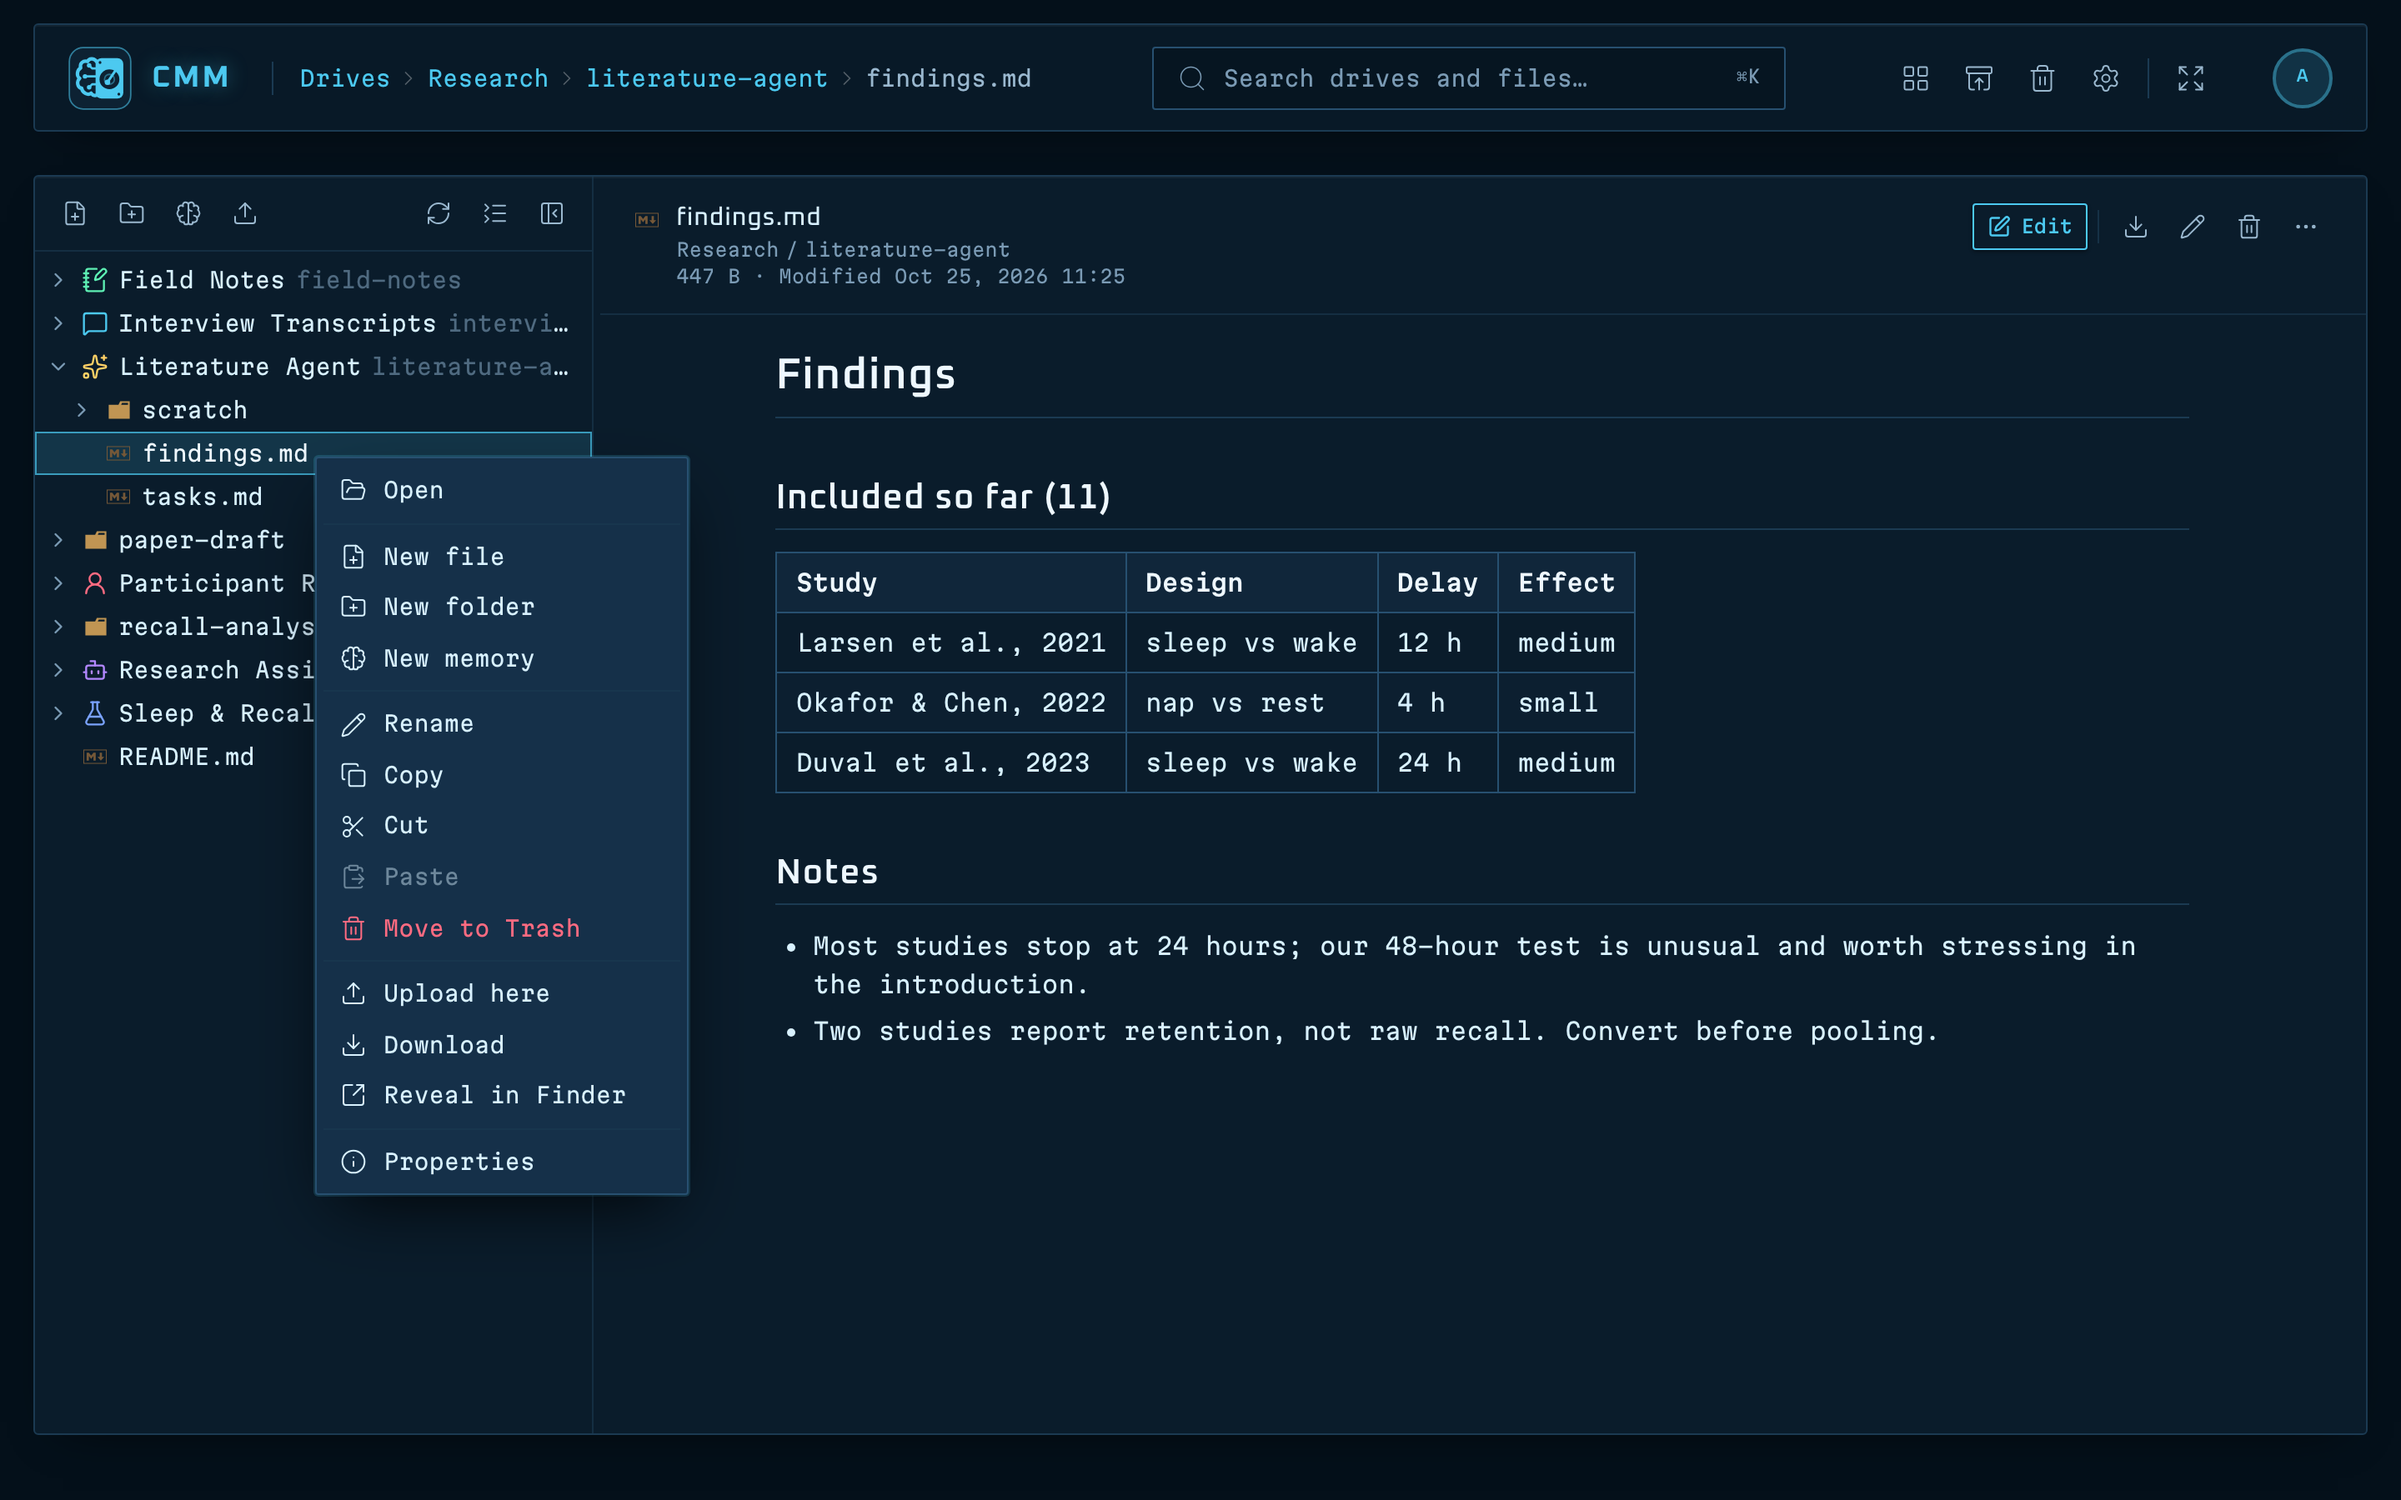
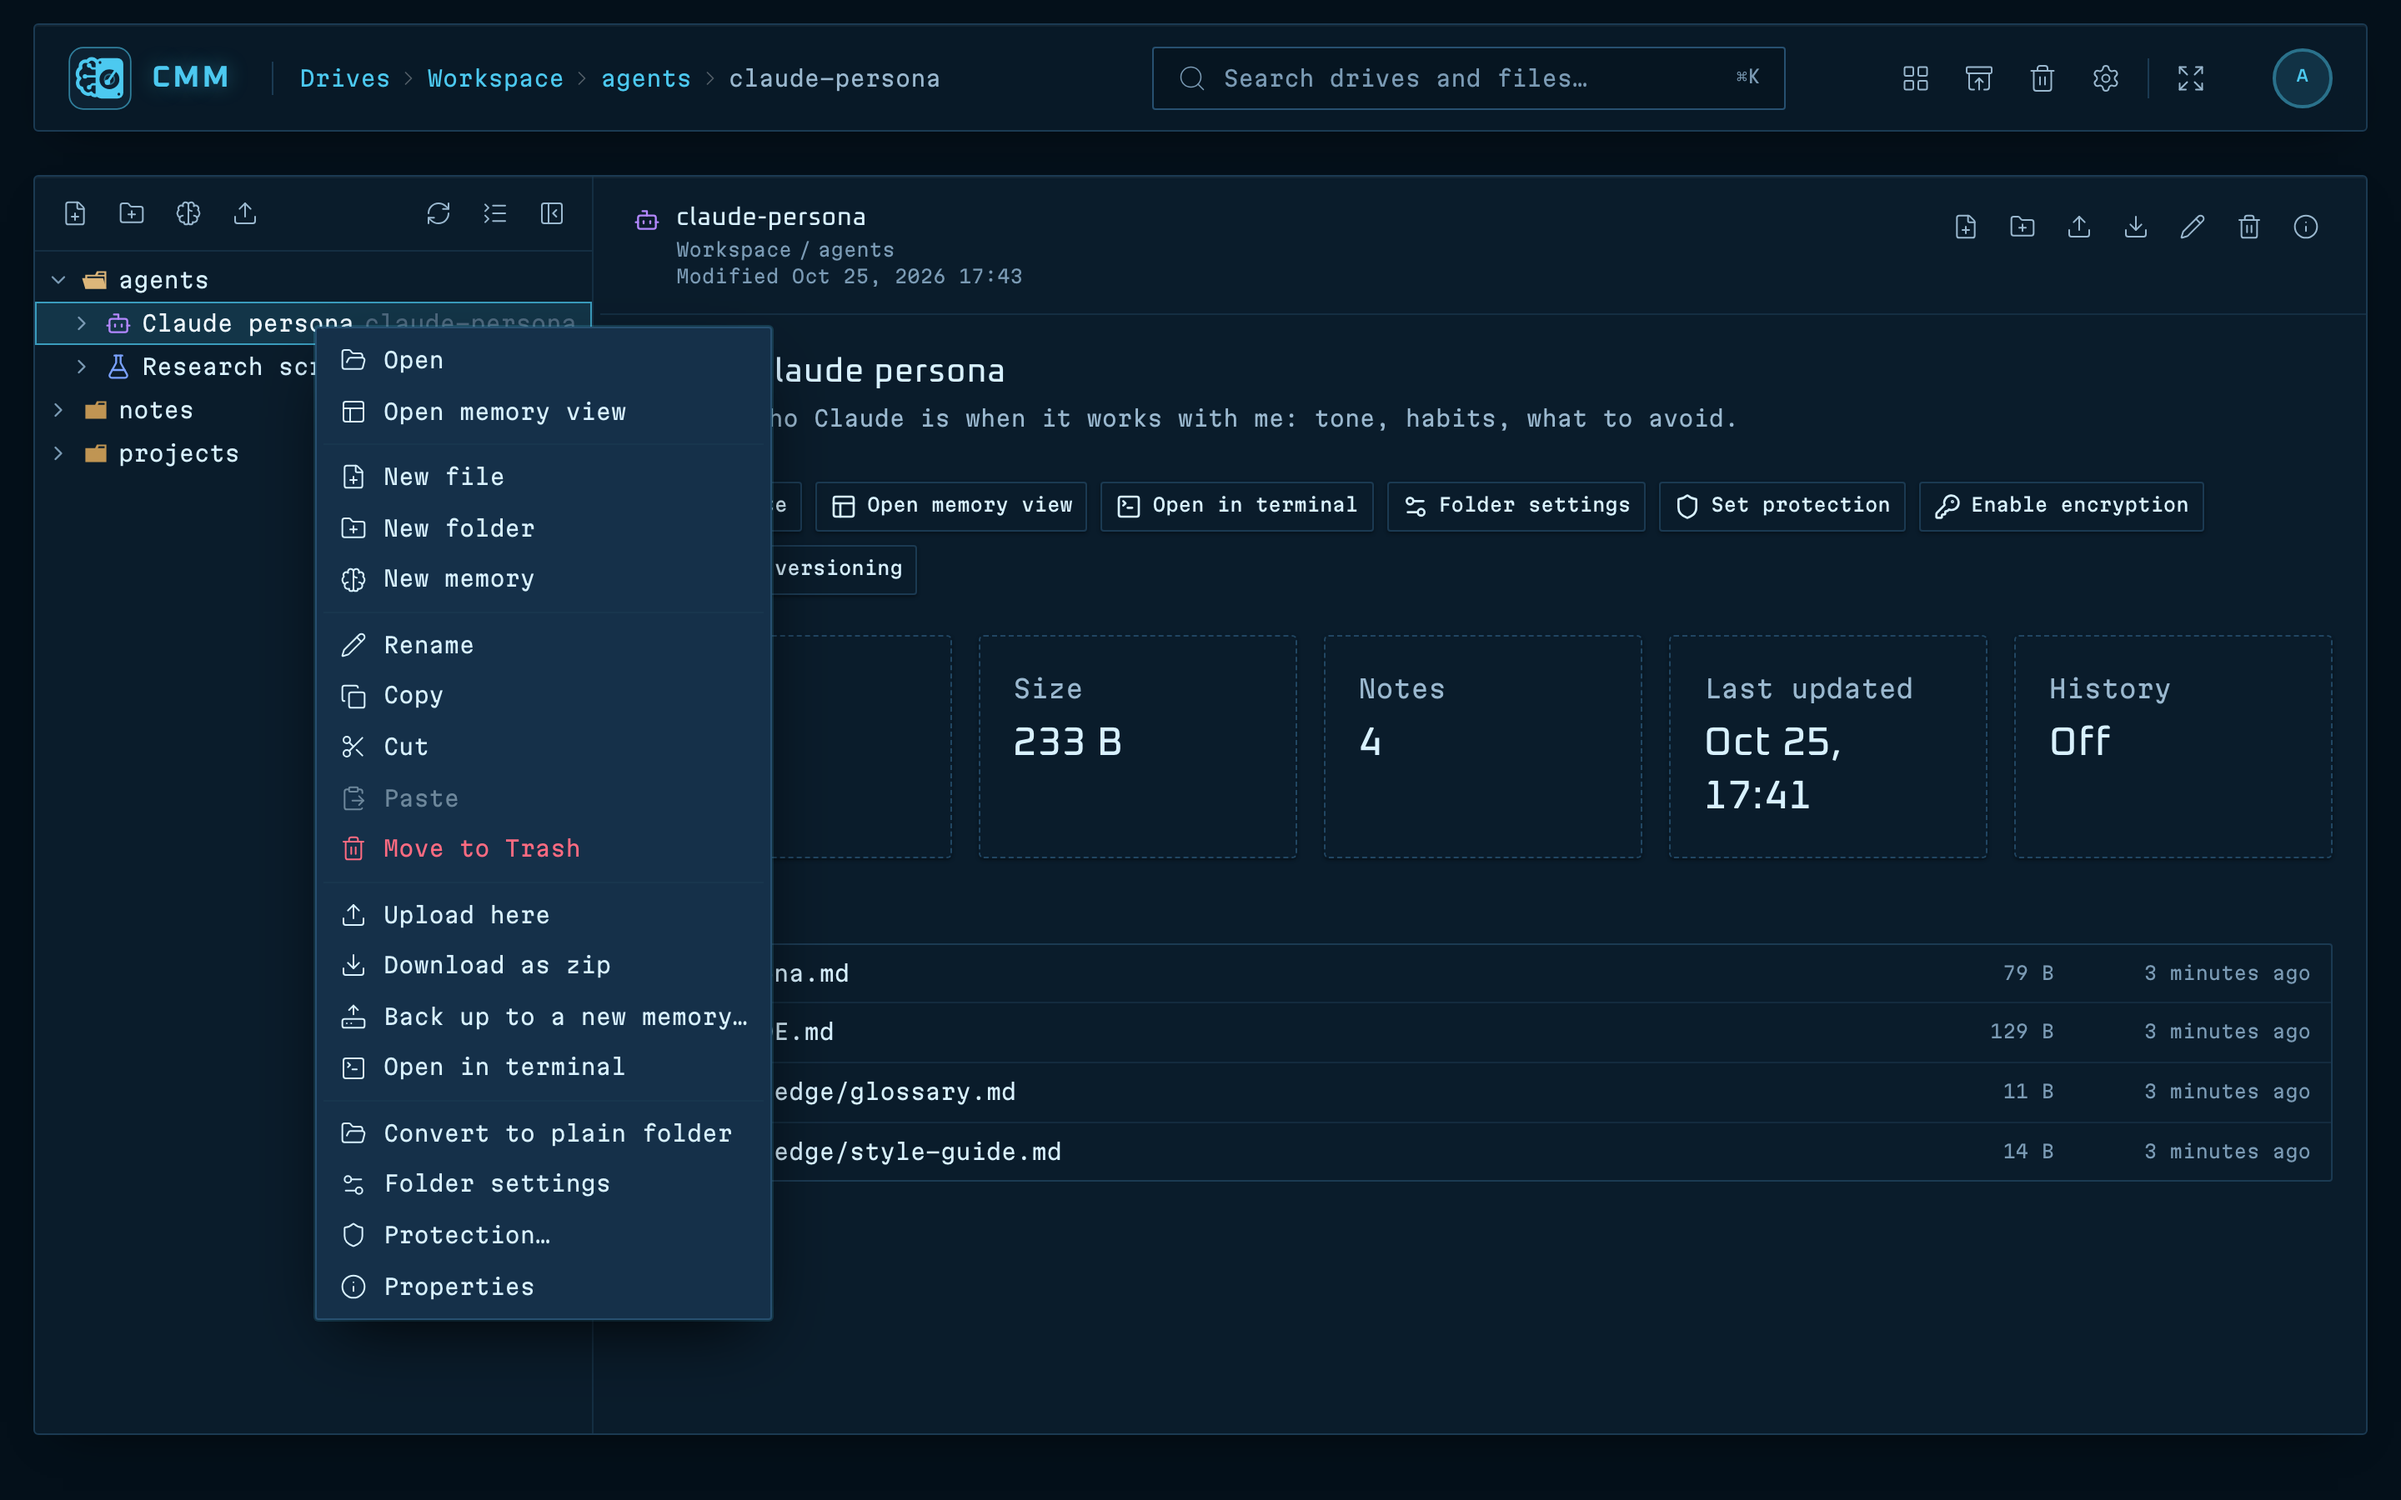
Docs: screenshots of terminals and memory backups; agent CLIs up front
- README and Desktop Guide: a terminal screenshot (Claude Code, Gemini
  CLI and opencode in a memory, two more terminals minimized) and a
  "back up to a new memory" screenshot; the right-click menu screenshot
  shows the new items.
- The README intro and the Terminals sections say plainly that any agent
  CLI runs inside a memory: Claude Code, Gemini CLI, Codex, opencode,
  Aider or your own scripts.

diff --git a/docs/guides/desktop-guide.md b/docs/guides/desktop-guide.md
@@ -390,7 +390,7 @@ If you save while the file has changed on disk, CMM says the file **changed on d
 This chapter covers everyday tasks: creating, renaming, moving, copying, uploading and downloading. Most of them are
 in the right-click menu of the file tree.
 
-![The right-click menu of a file in the tree.](assets/screens/explorer-context-menu.png)
+![The right-click menu of a memory in the tree.](assets/screens/explorer-context-menu.png)
 
 ## Creating files and folders
 
@@ -1132,6 +1132,8 @@ a new computer.
 3. Choose the drive and folder to **Create the memory in**, a mode and options, as for any profile.
 4. Click **Save and run**.
 
+![Backing up two memories into a new memory on a USB drive.](assets/screens/backup-to-memory.png)
+
 CMM creates a new memory folder named after the memory, for example **agent-memory** for "Agent memory". One folder's
 files go straight into it. With several folders, each one goes into a folder of its own inside it. Each folder's CMM
 details (memory name, icon and colour, encryption, versioning) go with it. The profile stays in the **Profiles** tab, so
@@ -1177,8 +1179,12 @@ copied, left unchanged or couldn't copy. Click a run for the details, including 
 
 # Terminals
 
-A terminal runs commands in a folder, without leaving CMM: `git`, scripts, or command-line agents such as Claude Code
-(`claude`). Terminals sit along the bottom of the window like chat windows, and you can have several open at once.
+A terminal runs commands in a folder or memory without leaving CMM. Use it to run **any agent CLI you like** right inside
+a memory: Claude Code (`claude`), Gemini CLI (`gemini`), Codex (`codex`), opencode, Aider, or your own scripts and `git`.
+The agent then reads and writes that memory directly. Terminals sit along the bottom of the window like chat windows,
+and you can have several open at once, for example one per agent or memory.
+
+![Claude Code, Gemini CLI and opencode in a memory's terminal, with two more terminals minimized at the bottom.](assets/screens/terminals.png)
 
 ## Opening a terminal
 
@@ -1187,7 +1193,8 @@ A terminal runs commands in a folder, without leaving CMM: `git`, scripts, or co
 - click **Open in terminal** on a folder's or memory's overview.
 
 The terminal starts in that folder, with your usual shell (on a Mac, the one Terminal uses; on Windows, the Command
-Prompt), so the commands you have installed work as they do there.
+Prompt), so the commands and agent CLIs you have installed work as they do there. Type `claude`, `gemini` or another
+agent's command to start it in that memory.
 
 ## Working with terminal windows
 

diff --git a/README.md b/README.md
@@ -19,8 +19,9 @@
 ![The Drives page: every storage and USB drive as a card, with free space.](docs/guides/assets/screens/drives-dashboard.png)
 
 AI agents and chat tools keep their memory in plain folders: personas, project knowledge, scratchpads, notes,
-datasets. CMM gives those folders a proper home. Browse and edit them in one app, mark folders as memories, lock or
-encrypt the sensitive ones, keep a history of every change, and back everything up to a USB stick or external drive.
+datasets. CMM gives those folders a proper home. Browse and edit them in one app, mark folders as memories, run any
+agent CLI (Claude Code, Gemini CLI, Codex…) right inside them, lock or encrypt the sensitive ones, keep a history of
+every change, and back everything up to a USB stick or external drive, ready to clone onto another computer.
 Nothing leaves your machine: there is no account, no cloud and no telemetry.
 
 CMM runs two ways:
@@ -93,11 +94,17 @@ running transfer.
 |---|---|
 | ![The backup page with the computer and its drives.](docs/guides/assets/screens/backup-idle.png) | ![A backup in progress.](docs/guides/assets/screens/backup-transfer.png) |
 
+![Backing up two memories into a new memory on a USB drive.](docs/guides/assets/screens/backup-to-memory.png)
+
 ### Terminals
 
-Open a terminal in any folder or memory to run commands, Git, or command-line agents such as Claude Code. Terminals
-dock along the bottom of the window like chat windows: open several, minimize, resize, and pick up where you left off
-after a reload. Admins only; on a server they stay off until an admin turns them on.
+**Run any agent CLI you like, right inside a memory**: Claude Code, Gemini CLI, Codex, opencode, Aider, or your own
+scripts and Git. Open a terminal on a folder or memory and it starts there, with your own shell, PATH and tools, so the
+agent reads and writes that memory directly. Terminals dock along the bottom of the window like chat windows: keep
+several open at once (one per agent or memory), minimize them (a dot shows new output), resize them, and pick up where
+you left off after a reload. Admins only; on a server they stay off until an admin turns them on.
+
+![Claude Code, Gemini CLI and opencode in a memory's terminal, with two more terminals minimized.](docs/guides/assets/screens/terminals.png)
 
 ### Users and security
 
